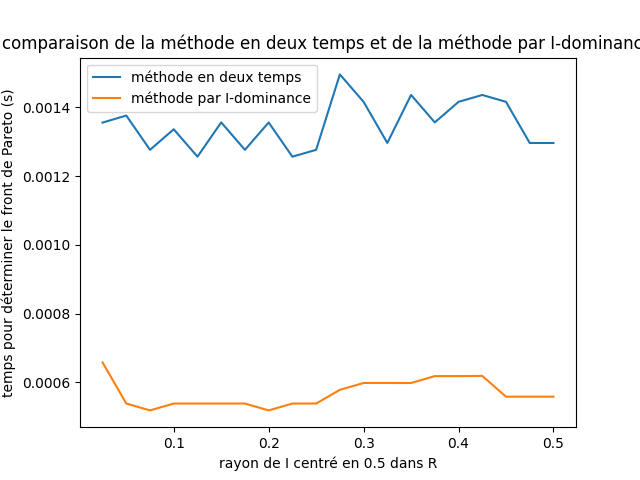
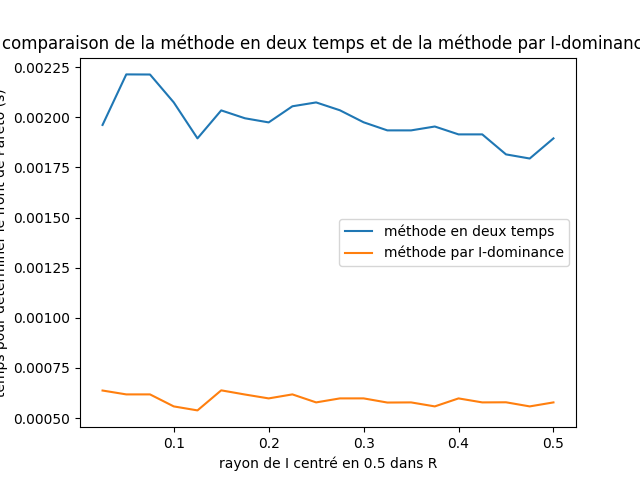
Tout est fini Par contre il sert à quoi le k dans la dernière question ?

diff --git a/main.py b/main.py
@@ -36,6 +36,10 @@ def compareMin(compared, comparison) :
         return "neither"
 
 def naiveDominance(s, brk = True): # O(n^2), dumb (remove break for very dumb version)
+    """
+    :param s: un ensemble de vecteurs à comparer
+    :return: un ensemble de vecteurs pareto optimaux en minimisation
+    """
     result = []
     for d1 in s:
         add = True
@@ -52,6 +56,7 @@ def naiveDominance(s, brk = True): # O(n^2), dumb (remove break for very dumb ve
 
 def lessNaiveDominance(s) :
     """
+    version raté de la dominance naive
     :param s: un ensemble de vecteurs à comparer
     :return: un ensemble de vecteurs pareto optimaux en minimisation
     """
@@ -72,6 +77,12 @@ def lessNaiveDominance(s) :
 
 #question 4
 def lexicomp(v, w, ordre = (0, 1)) :
+    """
+    :param v: vecteur (arraylist)
+    :param w: vecteur (arraylist)
+    :param ordre: tuple, liste ou vecteur de taille inférieure ou égale à calle de v et w
+    :return: comparaison lexicographique de v à w
+    """
     for i in ordre :
         if v[i] < w[i] :
             return "inf"
@@ -81,6 +92,11 @@ def lexicomp(v, w, ordre = (0, 1)) :
 
 
 def QuickLexicoSort(l, ordre = (0, 1)) :
+    """
+    :param l: un array de vecteurs correspondant aux points
+    :param ordre: un tuple de taille inférieure ou égale à celle des points
+    :return: le tri lexicographique des points selon l'ordre donné
+    """
     less = []
     equal = []
     greater = []
@@ -102,7 +118,6 @@ def QuickLexicoSort(l, ordre = (0, 1)) :
 
 def lexicoDominance(L) :
     """
-
     :param L: Un array de vecteurs
     :return: le front de pareto de cet ensemble en minimisation
     """
@@ -119,6 +134,10 @@ def lexicoDominance(L) :
 
 #question5
 def test() :
+    """
+    teste les fonctions de détermination de front de pareto graphiquement
+    :return: none
+    """
     data = generateNormalVectors(100, 5)
 
     fig, axs = plt.subplots(1, 3, figsize=(10, 5))
@@ -173,7 +192,22 @@ def question5(brk = True) :
     fig.savefig("compLexiNaif.png")
 
 #question 7
-def dynaMOSS(k, n, l) :
+dynaMOSStab = dict()
+
+def dynaMOSS(k, n, l, clear = False) :
+    global dynaMOSStab
+    """
+    :param k: nombre de vecteurs à choisir
+    :param n: nombre de vecteurs disponibles au choix
+    :param l: liste des vecteurs
+    :return: l'ensemble des images des ensembles de vecteurs de l d'indice inférieur à n de taille k Pareto optimaux (minimisation)
+    """
+
+    if clear :
+        dynaMOSStab = dict()
+
+    if (    dynaMOSStab.get((k,n), np.array([-1, -1]) ) != np.array([-1, -1])      ).any() :
+        return dynaMOSStab.get((k,n))
 
     if(k == 0) :
         return np.array([[0, 0]])
@@ -182,9 +216,13 @@ def dynaMOSS(k, n, l) :
         return np.array([[1000000, 10000000]])
     """
     if n-1 < k :
-        return dynaMOSS(k-1, n-1, l) + l[n]
+        a = dynaMOSS(k-1, n-1, l) + l[n]
+
+        return a
     #print("get : " + str(k) + " in " + str(n))
-    return lexicoDominance( np.concatenate(       (dynaMOSS(k-1, n-1, l) + l[n],  dynaMOSS(k, n-1, l)))        )
+    a = lexicoDominance( np.concatenate(       (dynaMOSS(k-1, n-1, l) + l[n],  dynaMOSS(k, n-1, l)))        )
+    dynaMOSStab[(k, n)] = a
+    return a
 
 
 #question 8
@@ -215,8 +253,14 @@ def minimaxEns(l, I) :
 
 
 #question 9
-def procDeuxTemps(l, n, I) :
-    pareto = dynaMOSS(1, n, l)
+def procDeuxTemps(l, I) :
+    """
+    :param l: liste des vecteurs
+    :param I: un tuple contenant alphamin et alphamax
+    :return: le point minimax de l
+    """
+    n = len(l)-1
+    pareto = dynaMOSS(1, n, l, clear = True)
     #print(pareto)
     return minimaxEns(pareto, I)
 
@@ -231,7 +275,7 @@ def testIdom() :
 
     optimal_lex = lexicoDominance(data)
     optimal_I = procIdom(data, 0.00001, 0.99999)
-    optimal_2T =  procDeuxTemps(data, 99, [0.00001, 0.99999])
+    optimal_2T =  procDeuxTemps(data, [0.00001, 0.99999])
     axs[0].plot(*optimal_lex.T, 'o')
     axs[1].plot(*optimal_I.T, 'o')
     axs[2].plot(*optimal_2T.T, 'o') # c'est normal si il y a qu'un seul point, c'est que c'est le minimax
@@ -257,6 +301,9 @@ def procIdom(points, amin, amax) :
 
 
 #question 12
+# j'ai pas compris à quoi k servait
+# TODO : k sert à quoi ?
+
 
 def question12() :
     times_2T = []
@@ -269,10 +316,10 @@ def question12() :
         alphamin = 0.5-i
         alphamax = 0.5+i
         print(i)
-        data = [generateNormalVectors(n, 1000) for _ in range(50)]
+        data = [generateNormalVectors(n, m) for _ in range(50)]
         start = time.time()
         for i in range(len(data)):
-            optimal = procDeuxTemps(data[i], n-1, [alphamin, alphamax])
+            optimal = procDeuxTemps(data[i], [alphamin, alphamax])
         times_2T.append((time.time() - start) / 50)
 
         start = time.time()
@@ -293,6 +340,7 @@ def question12() :
 
 #test()
 
-#testIdom()
+for i in range(10) :
+    testIdom()
 
 question12()
